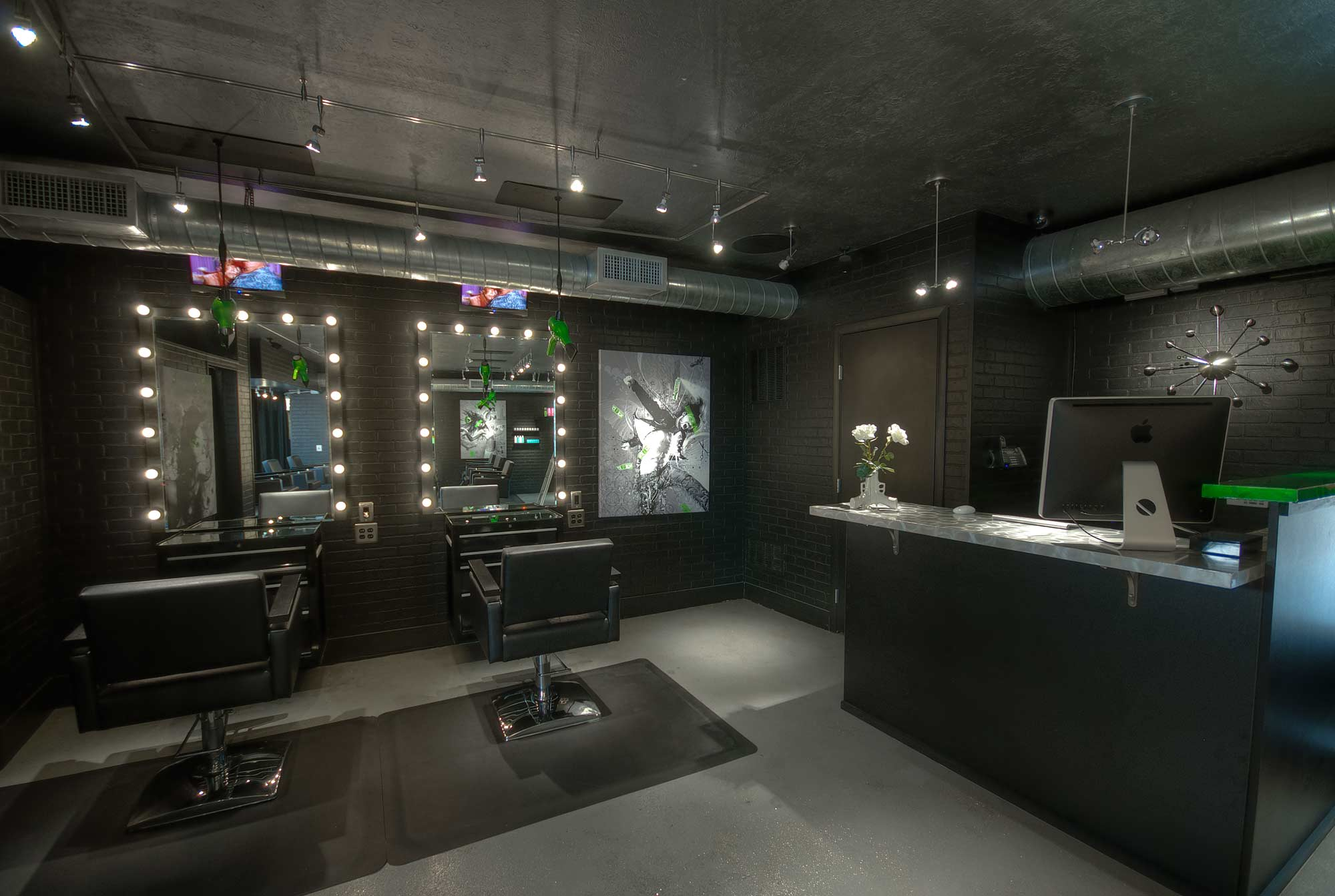
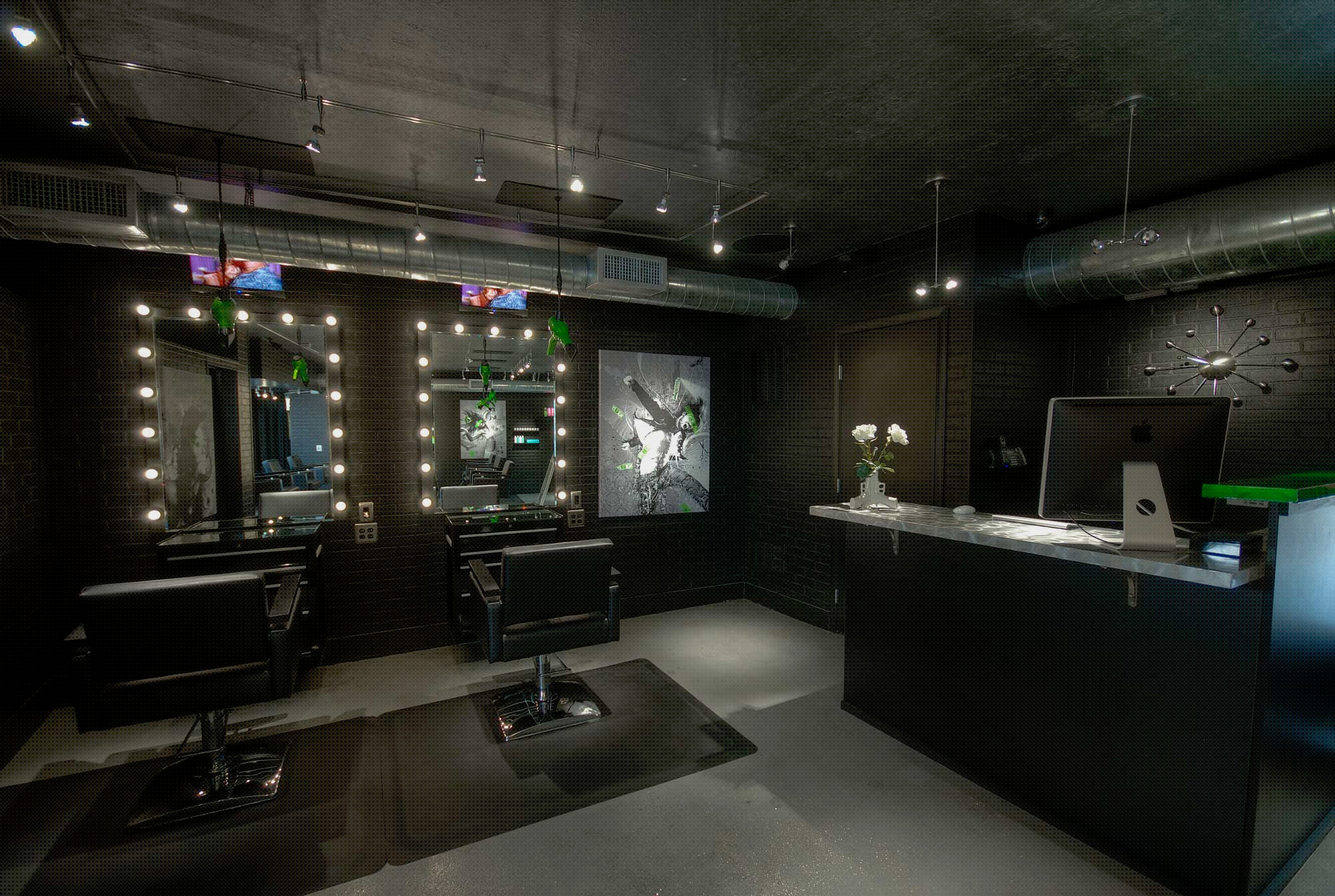
Messing around with homepage layouts

diff --git a/src/components/pages/Home.js b/src/components/pages/Home.js
@@ -4,31 +4,11 @@ import Rating from '../misc/Rating';
 
 export default function Home() {
     return (
-        <div>
-            <section className='bg-home'>
-                <header>
-                    <img className='homeLogo mx-auto mt-40 lg:w-1/3' src={logoHeader} alt='Title and Logo of Saints and Scissors'></img>
-                </header>
-            </section>
-            <section className='bg-black bg-opacity-75'>
-                <div className='flex flex-col justify-center lg:w-3/5 mx-3 lg:mx-auto text-center'>
-                    <div className='relative'>
-                    <button className='absolute -top-16 animate-bounce downIcon'>&#9660;</button>
-                    </div>
-                    <h2 className='font2 text-5xl lg:text-7xl text-white mt-16 mb-4'>Unlock Your Hair's Potential.</h2>
-                    <p className='text-lg'>At Saints and Scissors, we are more than just hairstylists - we are <strong>artists</strong>, <strong>creators</strong>, and <strong>visionaries</strong> dedicated to transforming your hair into a work of art. With a passion for perfection and an unwavering commitment to making you look and feel your best, we have become a go-to destination for exceptional hair design and care.</p>
-                    <hr className='w-4/5 lg:w-3/4 mx-auto my-2'></hr>
-                    <div className='flex flex-col justify-center my-4 text-center '>
-                        <p class='backdrop-brightness-50 font2 text-lg'>"Best salon experience I have ever had."</p>
-                        <div className='mx-auto'><Rating /></div>
-                        <small><em>- Ashely A.</em></small>
-                    </div>
-                </div>
-                <div className='relative text-center'>
-    <img className='absolute lg:left-1/3 opacity-80' src={aboutBg} alt='Grunge style women' />
-    {/* Add any additional content here */}
-  </div>
-            </section>
+        <div className='bg-black'>
+            <div className='bg-home'></div>
+            <header className='absolute top-1/4 w-full'>
+                <img className='homeLogo mx-auto mt-12 lg:mt-10 lg:w-2/5' src={logoHeader} alt='Title and Logo of Saints and Scissors'></img>
+            </header>
         </div>
     )
 }

diff --git a/src/components/Navbar.js b/src/components/Navbar.js
@@ -71,12 +71,9 @@ export default function Navbar({ children, currentPage, handlePageChange, availa
         {/* NAVBAR END */}
 
         {/* BOOK NOW BANNER BUTTON */}
-
-          <div className="absolute w-36 h-10 md:w-44 top-16 md:bottom-40 z-10 left-1/2 transform -translate-x-1/2">
-            <button className="btn-ghost normal-case w-full md:text-xl font-light text-black bg-lime-200 bg-opacity-60 hover:bg-opacity-100 rounded-b-2xl" onClick={() => { toggleBooking(true); }} aria-label="Open Vagaro booking drawer">BOOK NOW</button>
+          <div className="absolute w-36 md:w-44 bottom-0 z-10 left-1/2 transform -translate-x-1/2">
+            <button className="btn-ghost ghost text-black normal-case w-full" onClick={() => { toggleBooking(true); }} aria-label="Open Vagaro booking drawer">BOOK NOW</button>
           </div>
-
-
 
 
         {/* BEGIN MAIN PAGE CONTENT */}
@@ -88,20 +85,13 @@ export default function Navbar({ children, currentPage, handlePageChange, availa
           </div>
           <div className="drawer-side z-20">
             <label htmlFor="my-drawer" aria-label="close sidebar" className="drawer-overlay"></label>
-            <div className="w-full min-h-full bg-stone-950">
-
-
-              <div className="w-full h-screen text-center bg-stone-950">
-                <div className="h-full bg-black">
+                <div className="h-full w-full bg-black">
                   <div className="relative w-full top-0 text-center h-16">
                     <img className="mx-auto p-3" src={logoSm} alt="Hair stylist clippers with wings logo" />
                     <button onClick={() => { toggleBooking(false); }} className="btn btn-sm absolute top-0 right-0 h-16 w-16 text-white" aria-label="Close Vagaro booking drawer">✕</button>
                   </div>
-
                   {/* <iframe className="h-full w-full" src="https://www.vagaro.com/saintsandscissors/services" title="W3Schools Free Online Web Tutorials"></iframe> */}
                 </div>
-              </div>
-            </div>
           </div>
         </div>
         {/* END Booking Drawer */}

diff --git a/src/components/pages/About.js b/src/components/pages/About.js
@@ -1,19 +1,17 @@
-import aboutBg from "../../assets/backgrounds/paintedGirl.png";
-
+import aboutBg from "../../assets/decals/decal-2.png";
+import Rating from "../misc/Rating";
 export default function About() {
     return (
         <div className='h-full w-full bg-black pt-28 md:pt-14'>
-
             <div className='flex flex-col justify-center lg:w-3/5 mx-3 lg:mx-auto text-center'>
                 <h2 className='font2 text-5xl text-white mb-4'>Unlock Your Hair's Potential.</h2>
                 <p className='text-lg'>At Saints and Scissors, we are more than just hairstylists - we are <strong>artists</strong>, <strong>creators</strong>, and <strong>visionaries</strong> dedicated to transforming your hair into a work of art. With a passion for perfection and an unwavering commitment to making you look and feel your best, we have become a go-to destination for exceptional hair design and care.</p>
                 <hr className='w-4/5 lg:w-3/4 mx-auto my-2'></hr>
                 <div className='flex flex-col justify-center my-4 text-center '>
                     <p class='backdrop-brightness-50 font2 text-lg'>"Best salon experience I have ever had."</p>
-                    <div className='mx-auto'>Five Stars</div>
+                    <div className='mx-auto'><Rating /></div>
                     <small><em>- Ashely A.</em></small>
                 </div>
-
             </div>
             <div className='relative w-full md:w-1/4 mt-5 lg:mt-6 mx-auto'>
                 <img class='opacity-80' src={aboutBg} alt='Grunge style women'></img>

diff --git a/src/components/misc/Rating.js b/src/components/misc/Rating.js
@@ -2,11 +2,11 @@ export default function Rating() {
     return (
         <div className="ratings">
             <div className="rating w-4/5">
-                <input type="radio" name="rating-1" className="mask mask-star glass bg-yellow-300" checked />
-                <input type="radio" name="rating-1" className="mask mask-star glass bg-yellow-300" checked />
-                <input type="radio" name="rating-1" className="mask mask-star glass bg-yellow-300" checked />
-                <input type="radio" name="rating-1" className="mask mask-star glass bg-yellow-300" checked />
-                <input type="radio" name="rating-1" className="mask mask-star glass bg-yellow-300" checked />
+                <input type="radio" name="rating-1" className="mask mask-star glass bg-yellow-300" />
+                <input type="radio" name="rating-1" className="mask mask-star glass bg-yellow-300" />
+                <input type="radio" name="rating-1" className="mask mask-star glass bg-yellow-300" />
+                <input type="radio" name="rating-1" className="mask mask-star glass bg-yellow-300" />
+                <input type="radio" name="rating-1" className="mask mask-star glass bg-yellow-300" />
             </div>
         </div>
     )

diff --git a/src/App.css b/src/App.css
@@ -39,31 +39,30 @@ html {
 }
 
 /* Header (const page) */
-header {
-    padding-top: 4rem;
-}
+
 
 /* Home page */
 .bg-home {
-  background-attachment: fixed;
-  background-position: center;
+  background-attachment:fixed;
   background-repeat: no-repeat;
   background-size: cover;
   z-index: -5;
-  height: calc(100vh - 32px);
+  height: 100vh;
+  filter: grayscale(50%);
 }
 
 .bg-home {
-    background-image: url("assets/backgrounds/slides-home-1.jpg");
-    background-position: left;
-  }
+  background-image: url(assets/backgrounds/slides-home-2.jpg);
+  background-position: left;
+}
 
 /* Media Queries */
-@media screen and (max-device-width: 1024px) {
+@media screen and (min-device-width: 1024px) {
 
     /* Backgrounds  */
     .bg-home {
       background-attachment: scroll;
-      filter:grayscale(25%);
+
     }
+
   }

diff --git a/src/App.js b/src/App.js
@@ -38,7 +38,7 @@ function App() {
   return (
     <main>
       <Navbar currentPage={currentPage} handlePageChange={handlePageChange} availablePages={availablePages}>
-        <div className='w-full mx-auto mt-16'>
+        <div className='w-full mx-auto'>
           {renderPage()}
         </div>
       </Navbar>
